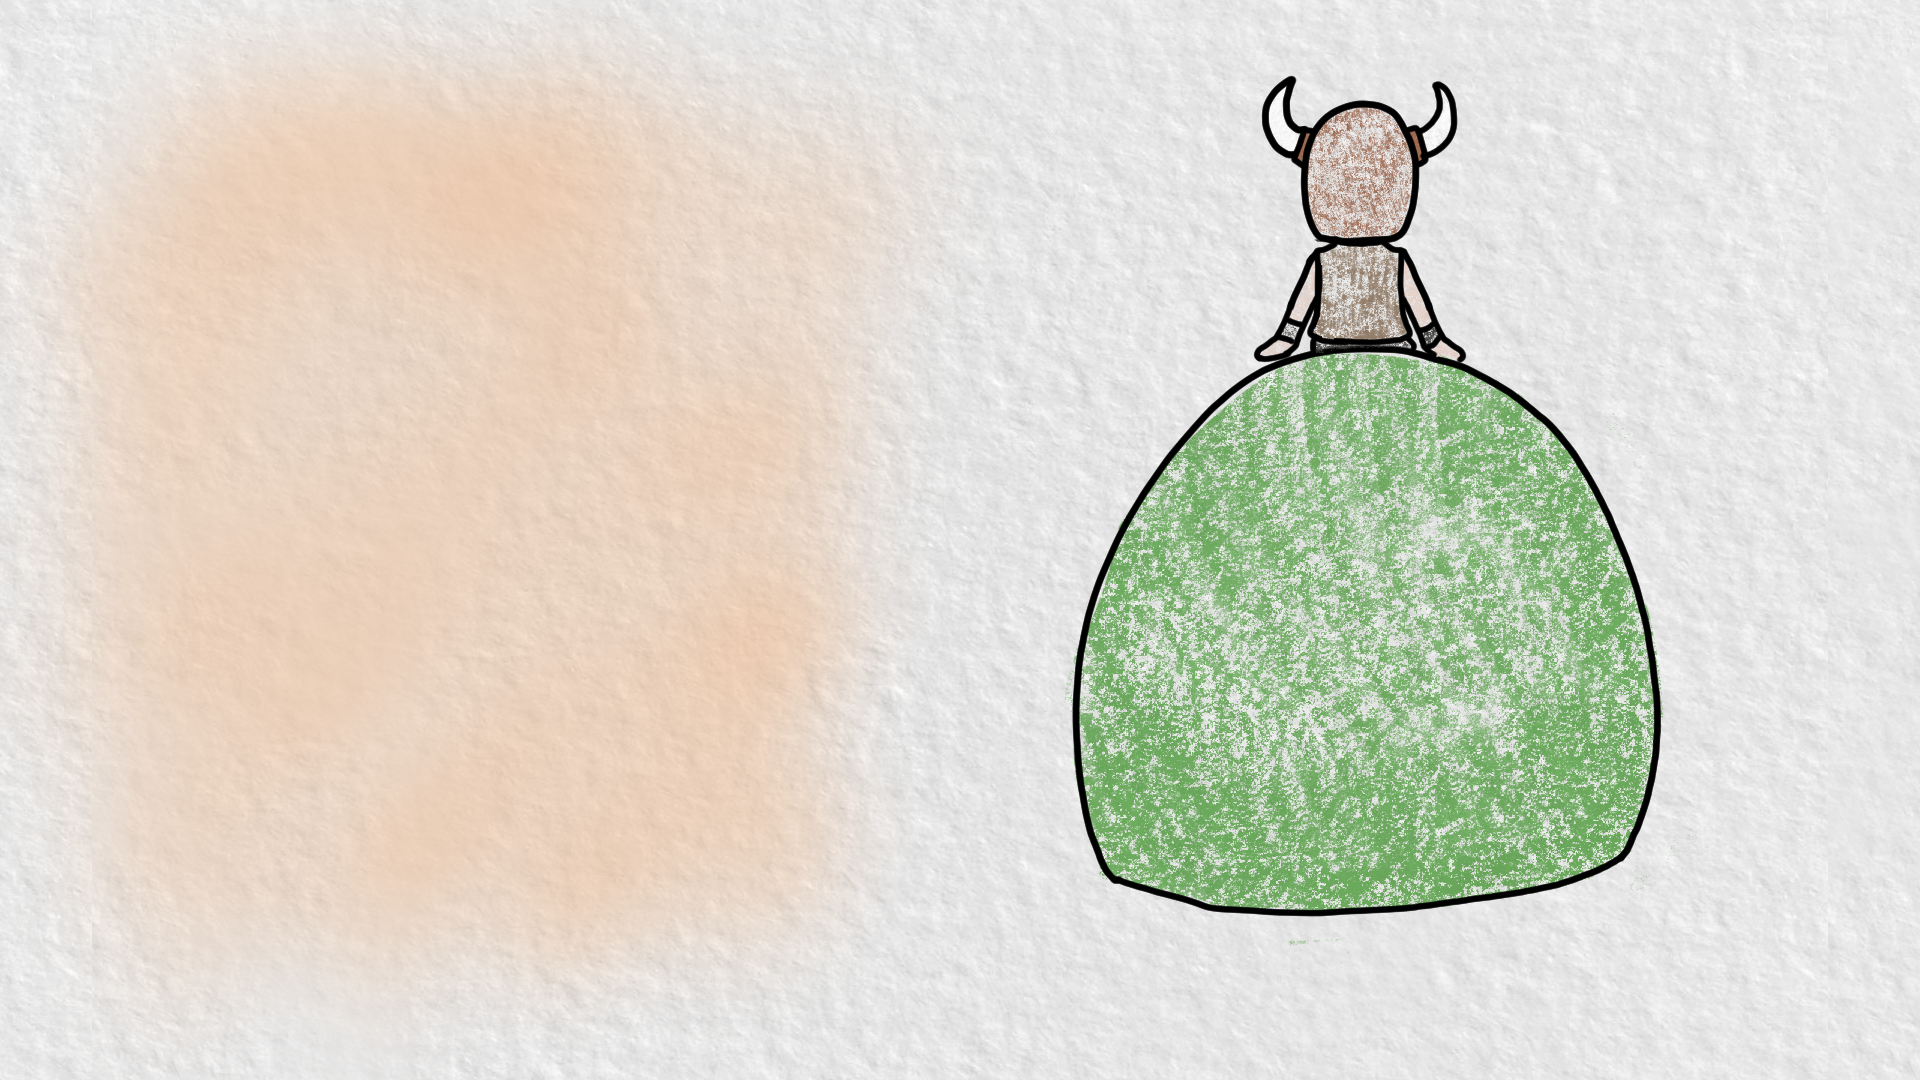
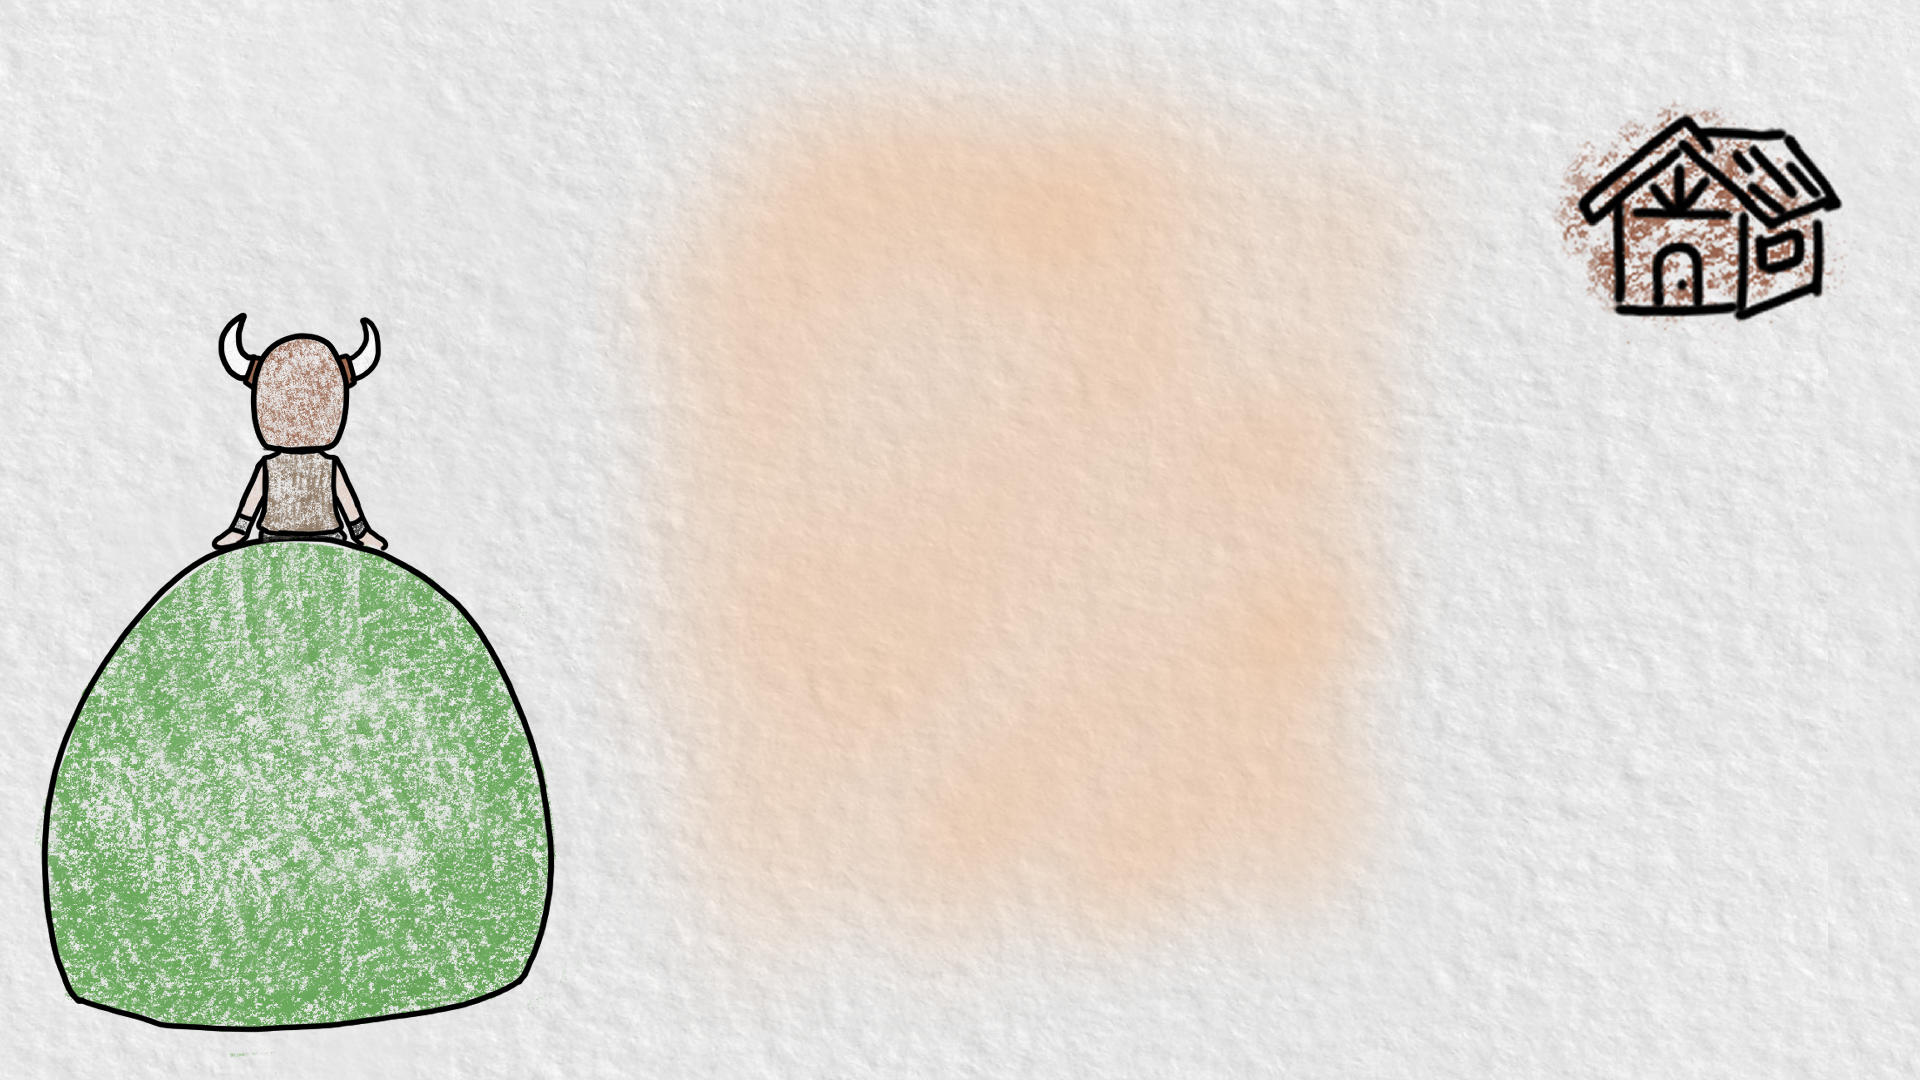
빌드 버전 버그 수정중

diff --git a/9TeamHB/Assets/_Game/Scripts/GameUI/InGameUIManager.cs b/9TeamHB/Assets/_Game/Scripts/GameUI/InGameUIManager.cs
@@ -167,17 +167,23 @@ public class InGameUIManager : MonoBehaviour
             MoveCount++;
     }
 
-    // 수정: 클리어 판정 → 통계만 저장 (UI는 워프 끝난 후 표시)
     private void OnStageClear()
     {
         _savedMoveCount = MoveCount;
         _savedTagCount = TagCount;
         _savedClearTime = timeElapsed;
-        // ShowGameClear()는 여기서 호출하지 않음!
-        // 워프 이펙트가 끝난 후 OnWarpComplete()에서 호출
+
+        // 태그 횟수 best record 저장
+        string key = "BestTagRecord_" + stageCount;
+        int prev = PlayerPrefs.GetInt(key, -1);
+        if (prev < 0 || _savedTagCount < prev)
+        {
+            PlayerPrefs.SetInt(key, _savedTagCount);
+            PlayerPrefs.Save();
+        }
     }
 
-    // 수정: 워프 연출 완료 → 클리어 UI 표시 → 2초 뒤 자동 다음 스테이지
+    // 수정: 워프 연출 완료 -> 클리어 UI 표시 -> 2초 뒤 자동 다음 스테이지
     private void OnWarpComplete()
     {
         ShowGameClear();

diff --git a/9TeamHB/Assets/_Game/Scripts/GameUI/Stage/StageCardCreator.cs b/9TeamHB/Assets/_Game/Scripts/GameUI/Stage/StageCardCreator.cs
@@ -53,12 +53,14 @@ public class StageCardCreator : MonoBehaviour
         GameObject newCard = Instantiate(stageCardPrefab, contentTransform);
         StageCard stageCard = newCard.GetComponent<StageCard>();
         RectTransform cardRect = newCard.GetComponent<RectTransform>();
-        
+    
         stageCarousel.AddStageCard(cardRect);
-        int record = 0;
-        
+    
+        // 변경: PlayerPrefs에서 best record 읽기
+        int record = PlayerPrefs.GetInt("BestTagRecord_" + index, 0);
+    
         bool isUnlocked = StageProgressManager.IsUnlocked(_globalIndex);
-        
+    
         stageCard.SetupCard(index, record, isTutorial, starCount, stageCarousel, cardRect, isUnlocked, _globalIndex);
         _globalIndex++;
     }
